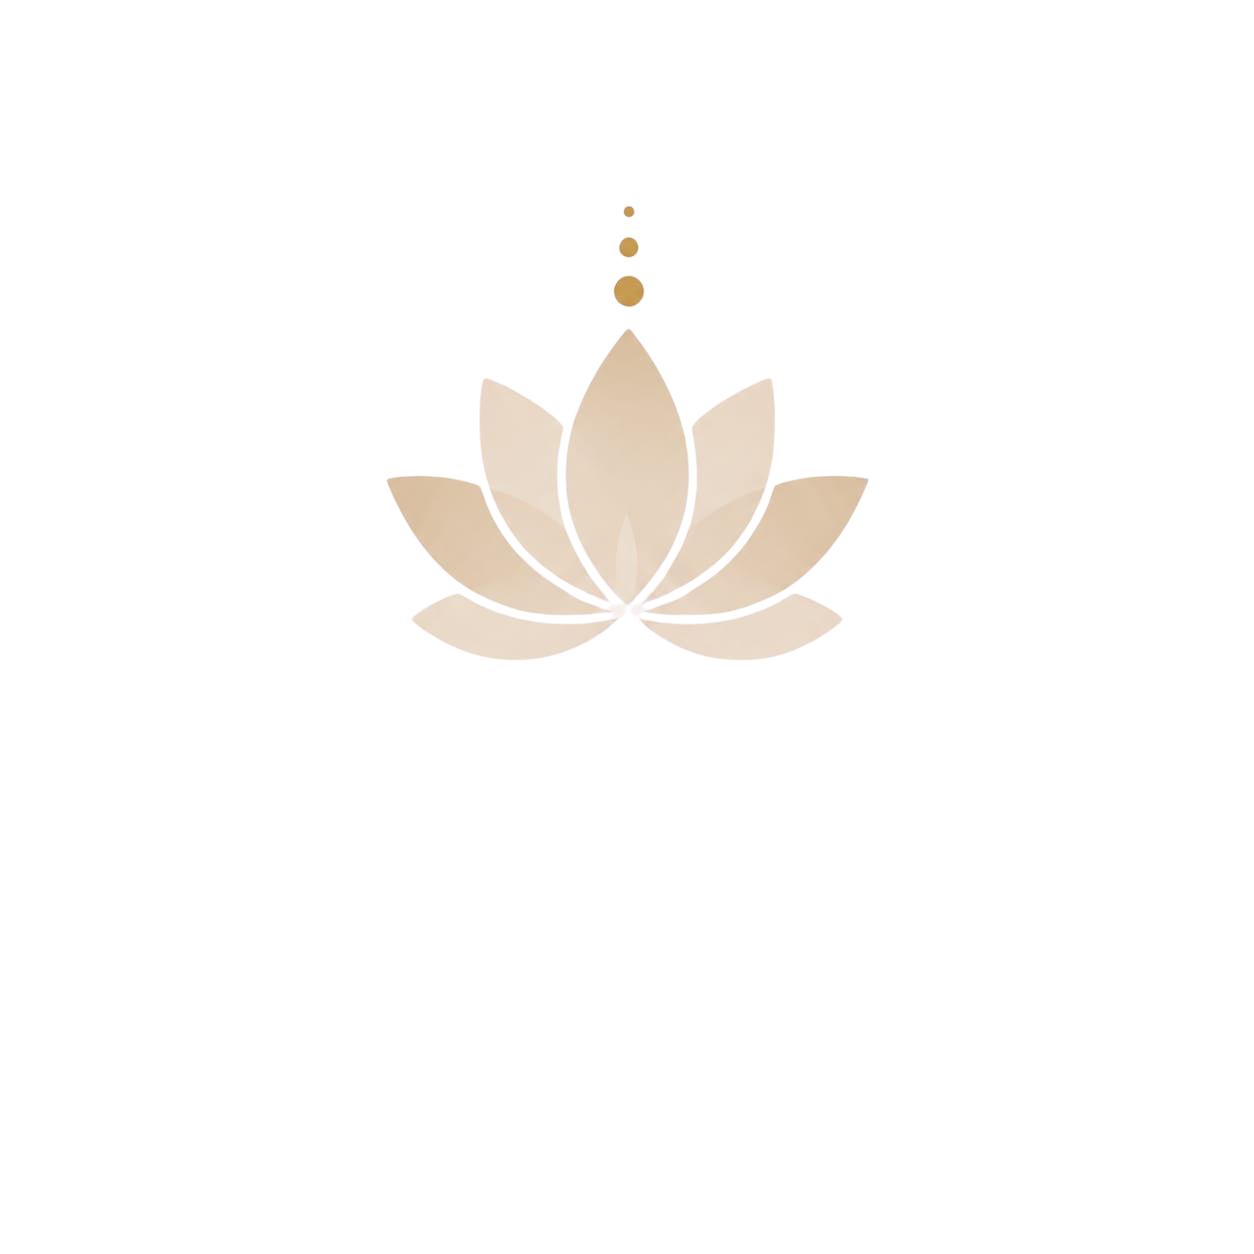
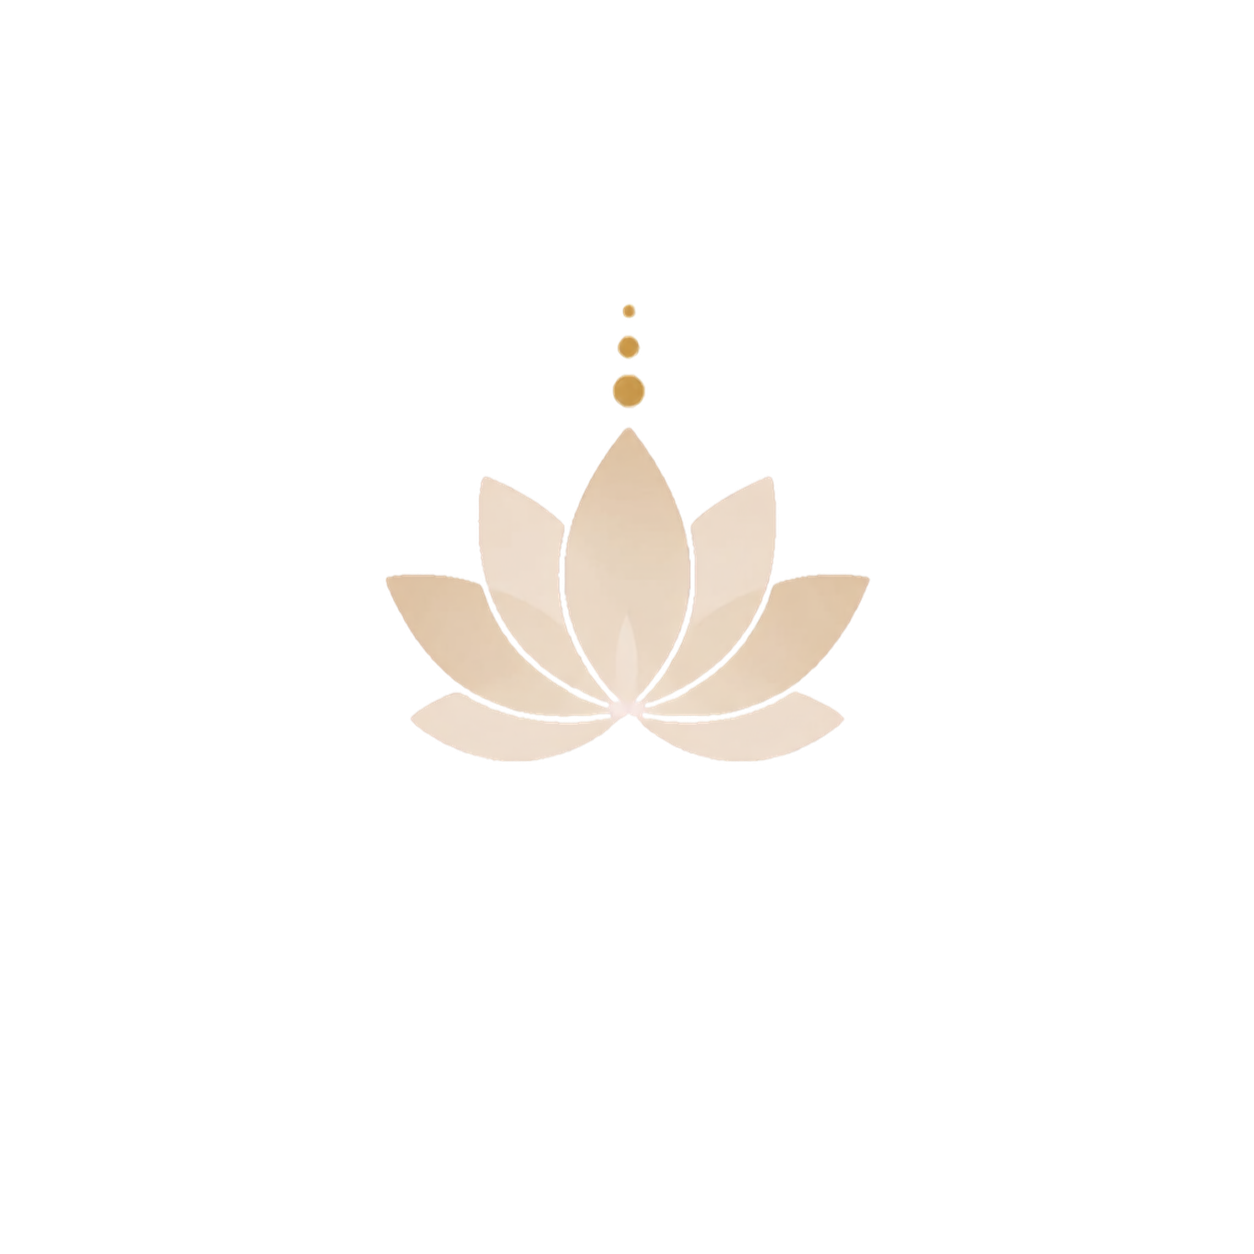
feat: update isotipo with new PNG, increase sizes to compensate padding

Changed region(s): [[0.311, 0.1866, 0.7153, 0.622]]

diff --git a/src/app/page.tsx b/src/app/page.tsx
@@ -160,7 +160,7 @@ export default function HomePage() {
         />
         <div className="relative z-10 text-center px-6 max-w-2xl mx-auto pt-20">
           <div className="flex justify-center mb-4">
-            <Image src="/isotipo.png" alt="EloHer" width={130} height={130} className="object-contain" />
+            <Image src="/isotipo.png" alt="EloHer" width={220} height={220} className="object-contain" />
           </div>
           <h1
             className="text-8xl md:text-[7rem] text-white leading-none mb-2"
@@ -350,7 +350,7 @@ export default function HomePage() {
         <FadeIn>
           <div className="max-w-3xl mx-auto text-center">
             <div className="flex justify-center mb-6">
-              <Image src="/isotipo.png" alt="EloHer" width={52} height={52} className="object-contain" />
+              <Image src="/isotipo.png" alt="EloHer" width={90} height={90} className="object-contain" />
             </div>
             <blockquote
               className="text-3xl md:text-4xl text-white italic leading-relaxed mb-6"

diff --git a/src/components/Navbar.tsx b/src/components/Navbar.tsx
@@ -37,7 +37,7 @@ export default function Navbar() {
 
         {/* Logo */}
         <Link href="/" className="flex items-center gap-3" onClick={() => setOpen(false)}>
-          <Image src="/isotipo.png" alt="EloHer" width={36} height={36} className="object-contain" />
+          <Image src="/isotipo.png" alt="EloHer" width={52} height={52} className="object-contain" />
           <div className="flex flex-col leading-none">
             <span
               className="text-2xl md:text-3xl text-white leading-none"